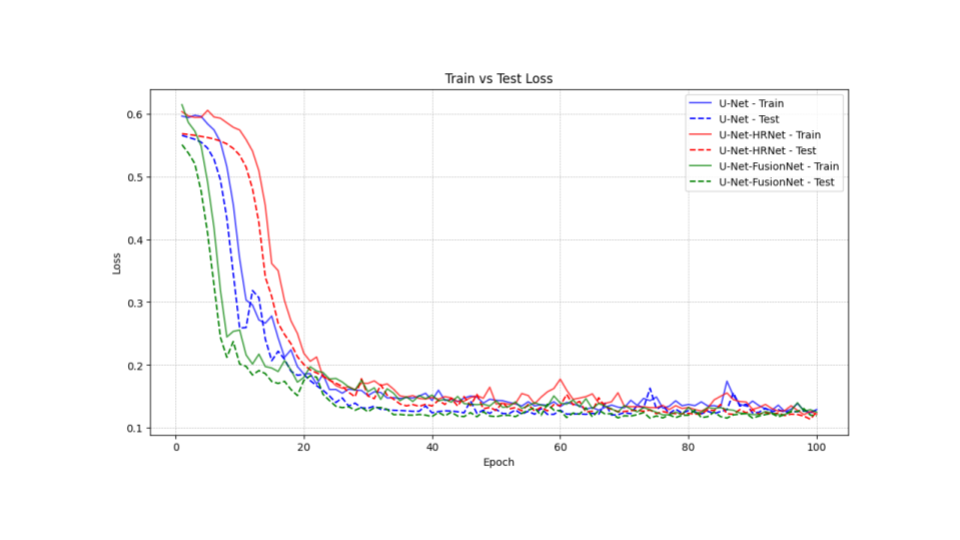
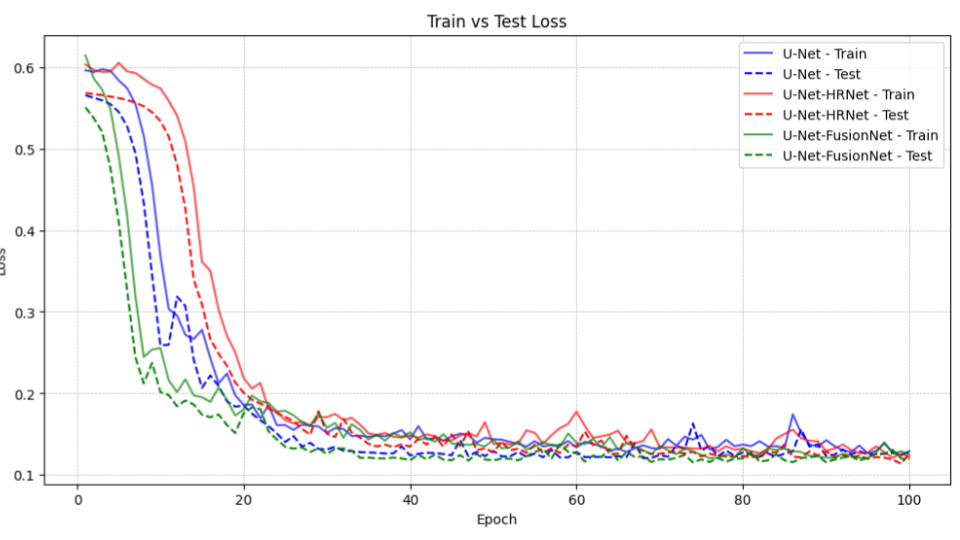
Updated readme and plots

diff --git a/README.md b/README.md
@@ -185,8 +185,10 @@ The Improved FusionNet U-Net replaces all convolution blocks with residual block
 
    - All models were trained using aligned, multimodal raster stacks and evaluated consistently across splits.
 
+**Architectural Sensitivity & Convergence Analysis:**
+
 <p align="left">
-  <img src="visuals\test_loss.png" alt="Spectral and Structural Insights" width="300">
+  <img src="visuals\test_loss.png" alt="Spectral and Structural Insights" width="500">
 </p> 
 
 Training Setup
@@ -199,16 +201,18 @@ Learning Rate Selection
 
 
 <p align="left">
-  <img src="visuals\convergence.png" alt="Spectral and Structural Insights" width="300">
+  <img src="visuals\convergence.png" alt="Spectral and Structural Insights" width="500">
 </p>
 
-Convergence Behavior
-• Rapid loss drop in first 20 epochs, then plateau
-• 50 epochs chosen to balance convergence vs. overfitting
+All three U-Net architectures demonstrate stable convergence behaviors within 100 epochs, with a rapid loss drop in the first 20 epochs followed by a steady plateau around 0.12–0.15.
 
-Threshold Tuning (IoU vs. Thresh.)
-• Peak IoU at 0.4–0.5 for all models
+  - **U-Net-FusionNet** (incorporating residual connections) exhibits the fastest and most stable convergence, achieving the lowest overall training and testing loss values early on and maintaining low test loss variability.
+  - **U-Net-HRNet** (incorporating channel-wise Squeeze-and-Excitation attention) shows slightly higher training and testing loss variations during the early epochs but stabilizes effectively after epoch 25.
 
+- 50 epochs chosen to balance convergence vs. overfitting for all models
+
+Threshold Tuning (IoU vs. Thresh.):
+- Peak IoU at 0.4–0.5 for all models
 ---
 
 ### 6. **Augmentation Strategy**  
@@ -243,23 +247,18 @@ Threshold Tuning (IoU vs. Thresh.)
 <<<<<<< Updated upstream
 ### 9. **Results Overview**  
 * **Multimodal Contribution (Band Comparison):** Integrating LiDAR-derived structural features notably improves segmentation accuracy compared to spectral-only data. For the lightweight U-Net baseline:
-    * Moving from **RGB** (IoU: 69.1%) to **RGBI** yields a modest boost of 1.3 percentage points (IoU: 70.4%).
-    * Adding the Canopy Height Model (**RGBI + CHM**) provides the most significant performance leap, driving IoU up to **75.1%** (a total increase of 6.0 percentage points from RGB, and an increase from 69.1% to 75.1% for IoU and 75.5% to 81.8% for Dice). 
-    * The inclusion of further topographical layers (Slope and Aspect) beyond the CHM results in negligible performance gains (**RGBI + CHM + Slope** centers around 75.0% IoU).
-
-* **Architectural Sensitivity & Convergence:** All three U-Net architectures demonstrate stable convergence behaviors within 100 epochs, with a rapid loss drop in the first 20 epochs followed by a steady plateau around 0.12–0.15.
-    * **U-Net-FusionNet** (incorporating residual connections) exhibits the fastest and most stable convergence, achieving the lowest overall training and testing loss values early on and maintaining low test loss variability.
-    * **U-Net-HRNet** (incorporating channel-wise Squeeze-and-Excitation attention) shows slightly higher training and testing loss variations during the early epochs but stabilizes effectively after epoch 25.
+    - * Moving from **RGB** (IoU: 69.1%) to **RGBI** yields a modest boost of 1.3 percentage points (IoU: 70.4%).
+    - * Adding the Canopy Height Model (**RGBI + CHM**) provides the most significant performance leap, driving IoU up to **75.1%** (a total increase of 6.0 percentage points from RGB, and an increase from 69.1% to 75.1% for IoU and 75.5% to 81.8% for Dice). 
+    - * The inclusion of further topographical layers (Slope and Aspect) beyond the CHM results in negligible performance gains (**RGBI + CHM + Slope** centers around 75.0% IoU).
 
 * **Data Augmentation Sensitivity:** The architectures react differently to geometric and photometric transformations, indicating that augmentation intensity must be carefully tailored to structural depth:
-    * **Lightweight U-Net:** Benefits consistently from simple geometric flips, with **VerticalFlip** boosting its metric to **78.4** (up from 75.3 with no augmentation).
-    * **U-Net-HRNet:** Exhibits a high affinity for smoothing and blurring mechanisms rather than spatial distortions. Applying **Blur** yields its highest overall performance score of **80.6** (up from 68.7 with no augmentation).
-    * **U-Net-FusionNet:** Demonstrates high baseline robustness without augmentations (77.1), but is severely degraded by aggressive spatial distortions. Applying **Scale** drops its performance sharply to a critical low of **68.6** (highlighted in red), indicating that scaling distortions disrupt its internal residual feature maps. Heavy noise injections (e.g., GaussNoise) universally harm performance across all three models.
+    - * **Lightweight U-Net:** Benefits consistently from simple geometric flips, with **VerticalFlip** boosting its metric to **78.4** (up from 75.3 with no augmentation).
+    - * **U-Net-HRNet:** Exhibits a high affinity for smoothing and blurring mechanisms rather than spatial distortions. Applying **Blur** yields its highest overall performance score of **80.6** (up from 68.7 with no augmentation).
+    - * **U-Net-FusionNet:** Demonstrates high baseline robustness without augmentations (77.1), but is severely degraded by aggressive spatial distortions. Applying **Scale** drops its performance sharply to a critical low of **68.6** (highlighted in red), indicating that scaling distortions disrupt its internal residual feature maps. Heavy noise injections (e.g., GaussNoise) universally harm performance across all three models.
 
 ## Installation and Reproduction
 This project was developed with Python 3.10 and TensorFlow 2.10.
 
 =======
->>>>>>> Stashed changes
 Presentation of this thesis is available in the file:  
 [**thesis_presentation.pdf**](visuals/thesis_presentation.pdf)